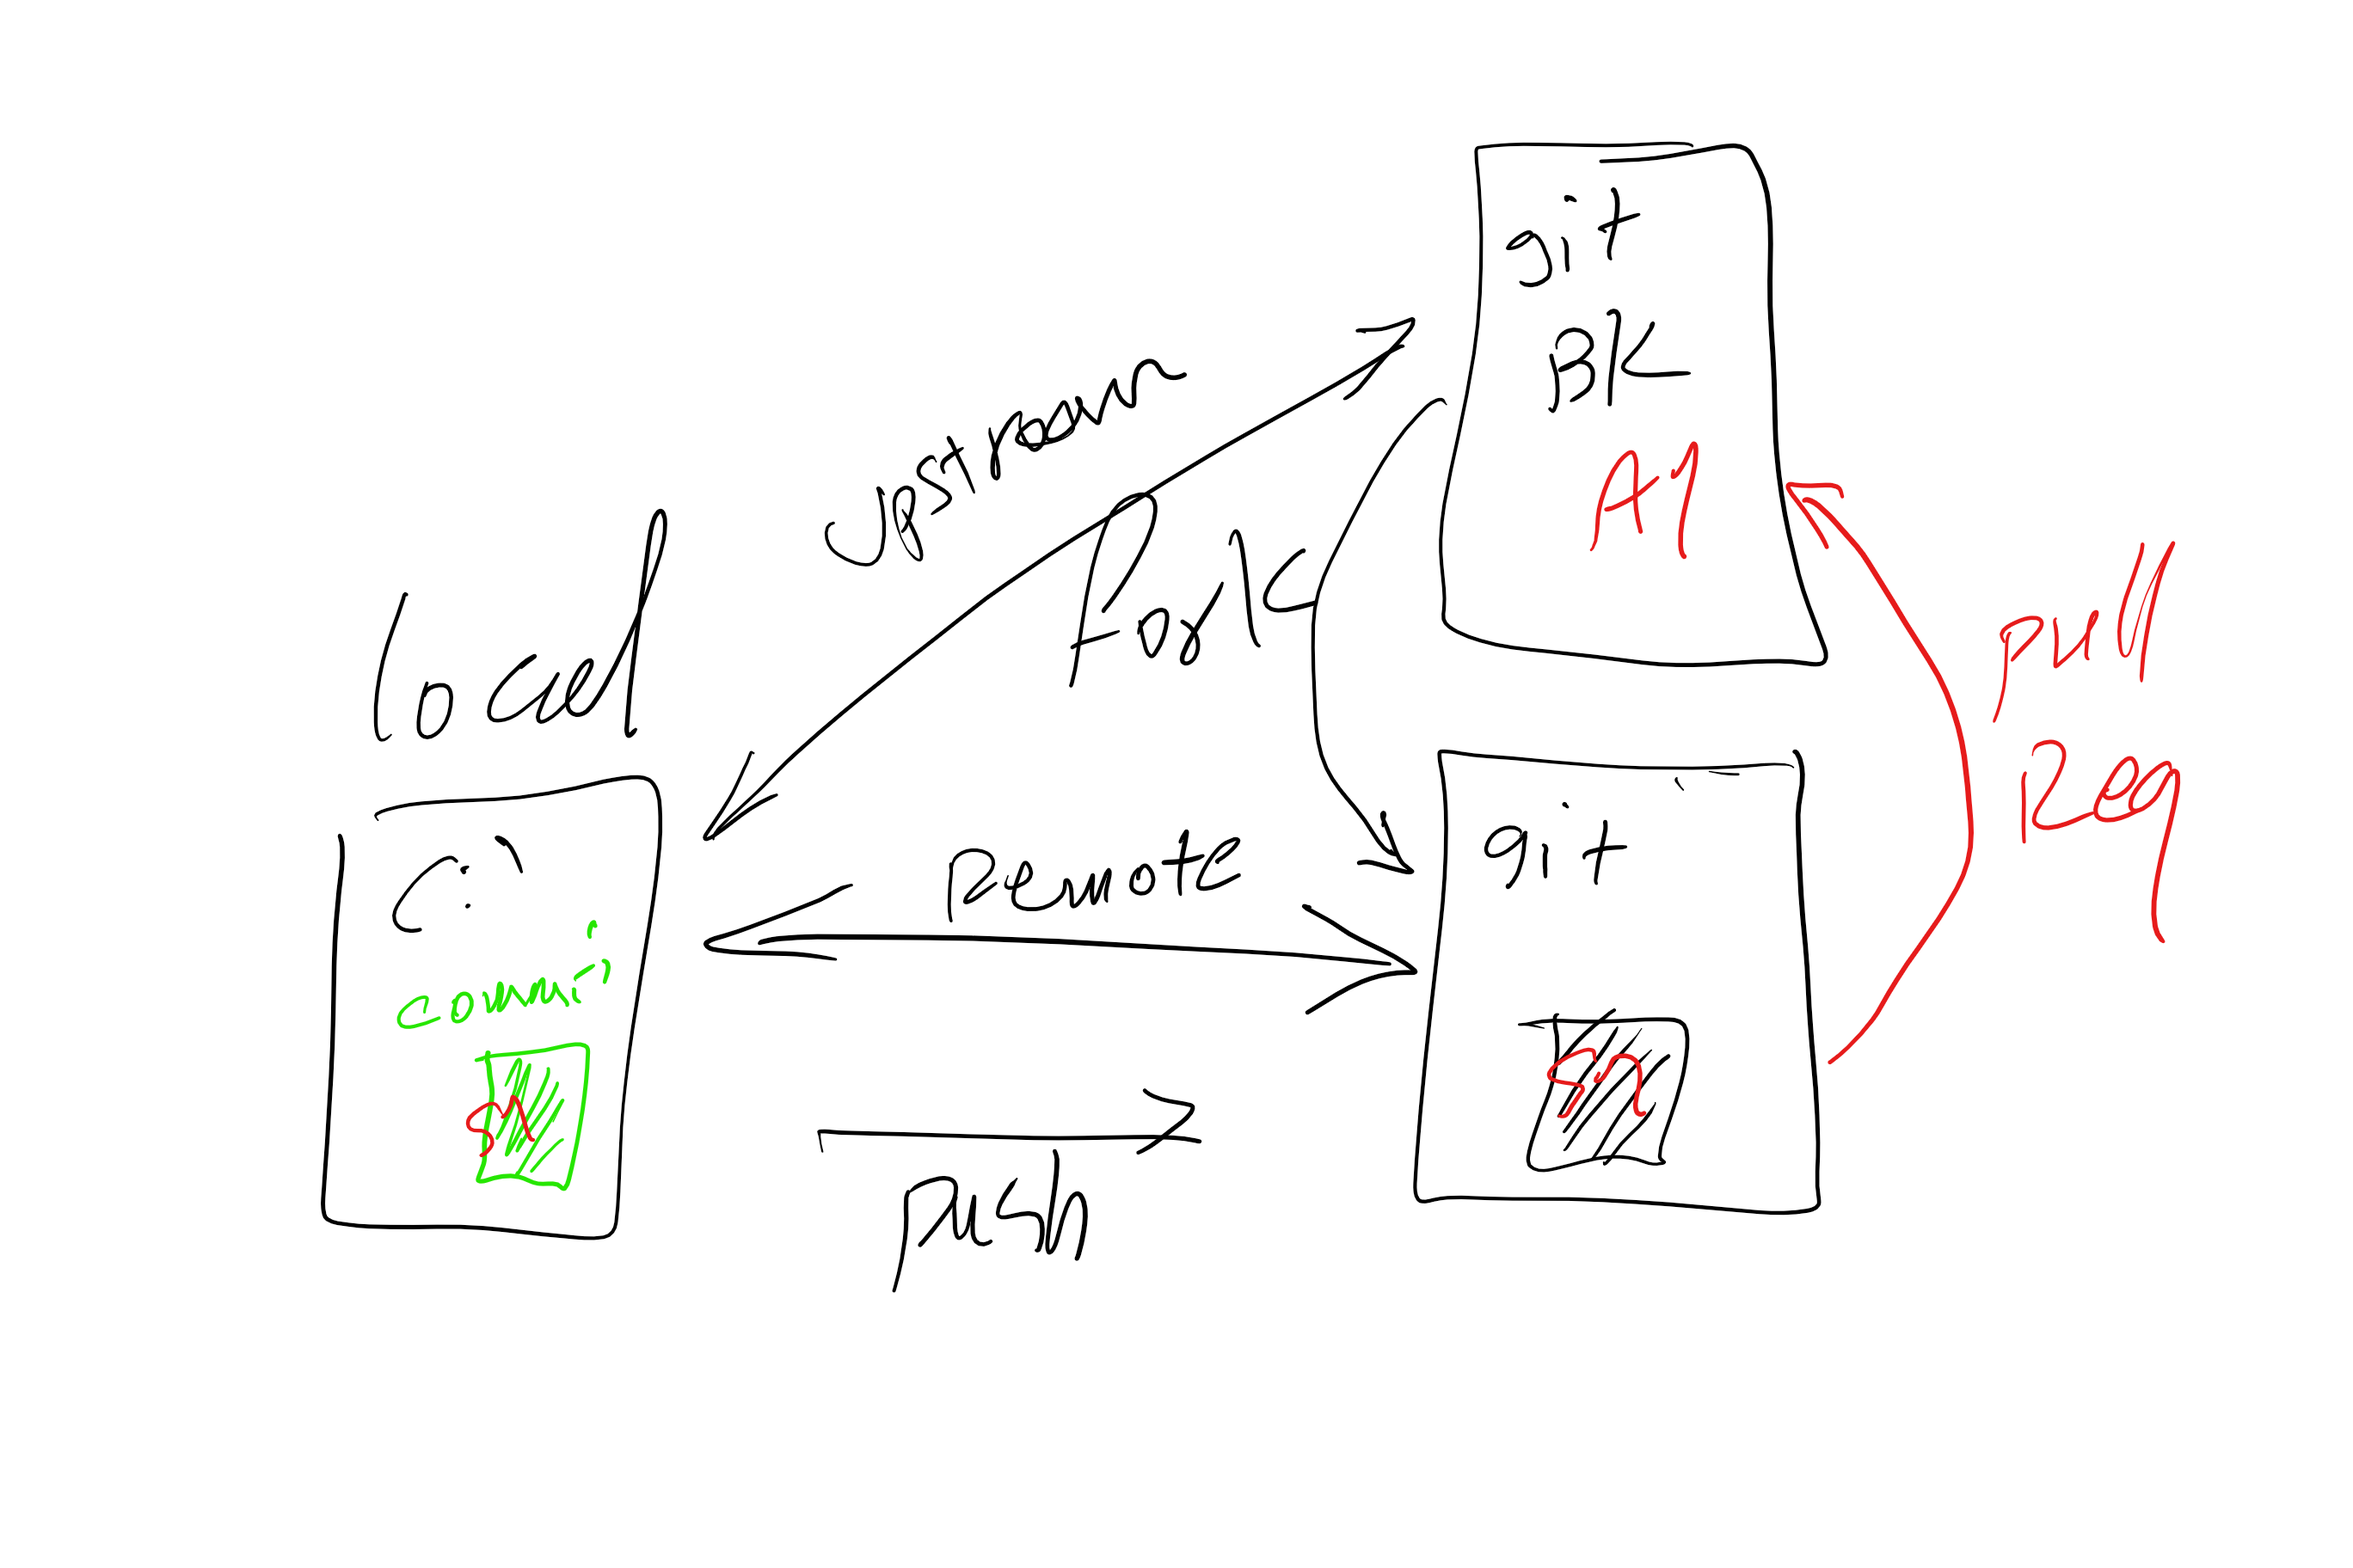
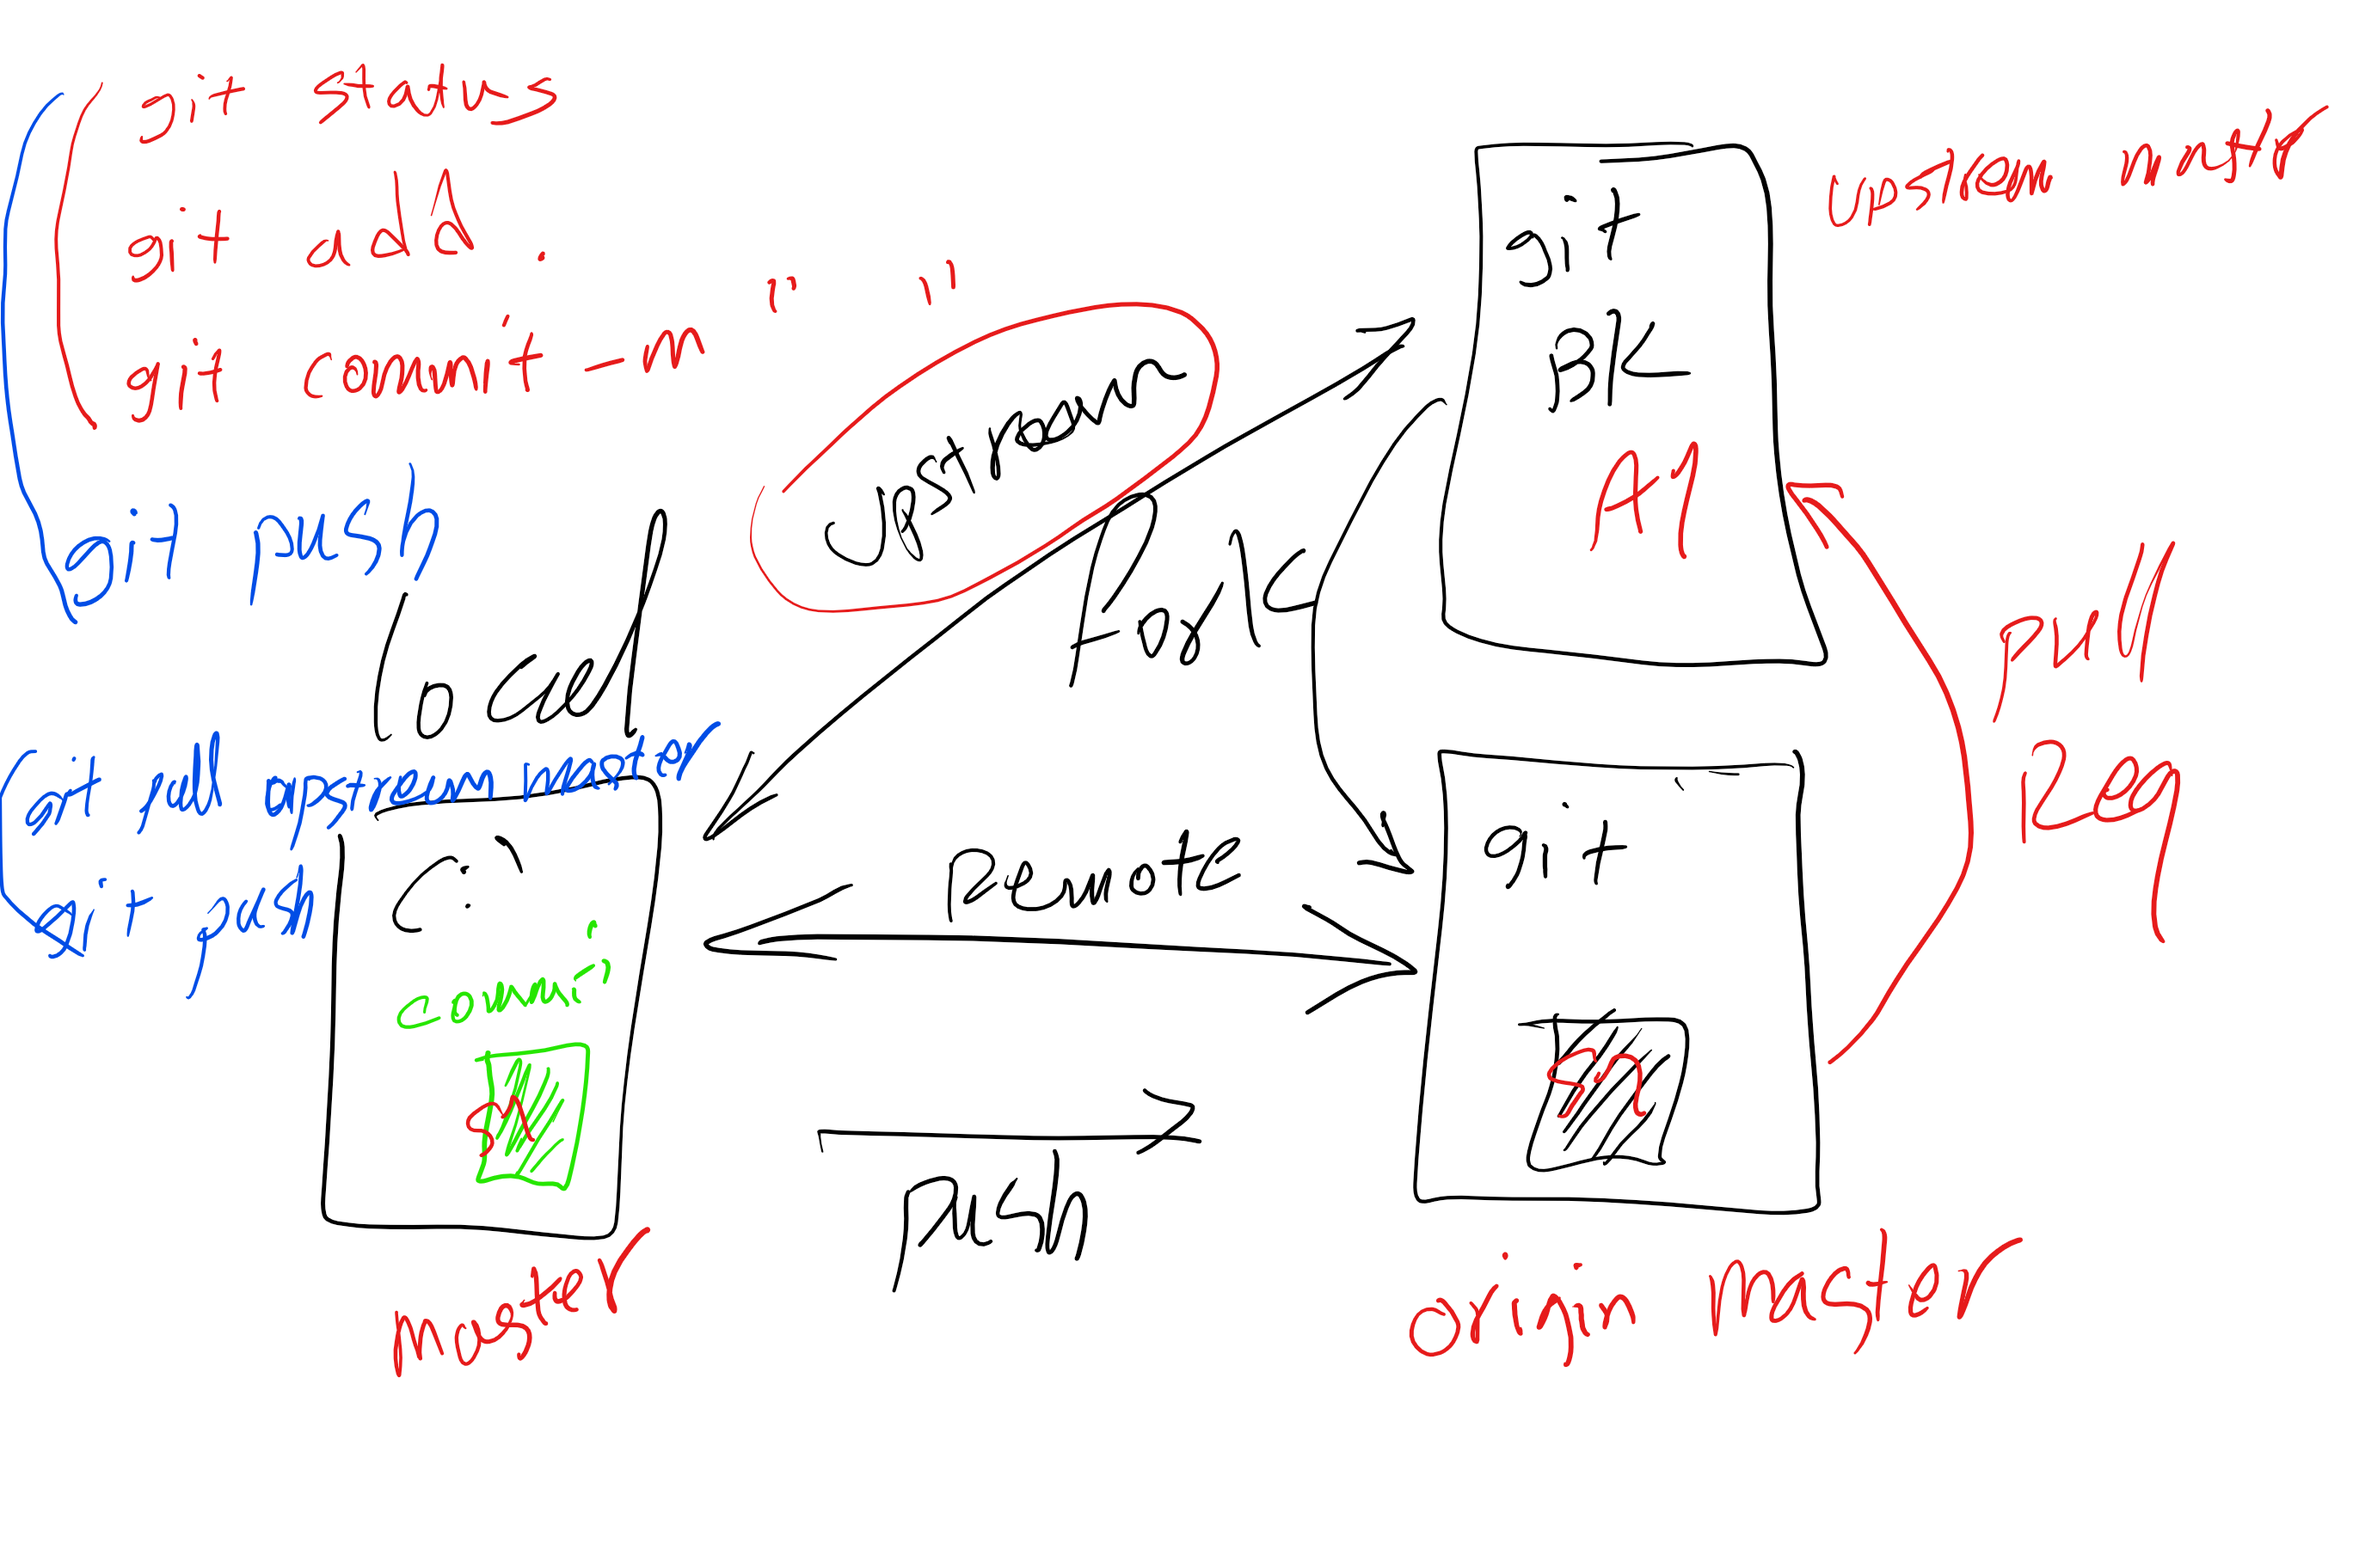
session 3

diff --git a/Behrang/03_4.py b/Behrang/03_4.py
@@ -1,0 +1,53 @@
+# -*- coding: utf-8 -*-
+"""
+Created on Sun Feb  9 11:24:49 2020
+
+@author: koushb
+"""
+
+import pandas as pd
+from sklearn import  linear_model as lm
+from sklearn.metrics import mean_squared_error as mse
+from sklearn.metrics import r2_score as r2
+import matplotlib.pyplot as plt
+
+lst=[1,6,4,3,8,9,1,5,8,8,7]
+
+
+a=np.mean(lst)
+print(a)
+
+df_bk=pd.read_csv("diabetes.csv")
+
+#var_names=['AGE', 'SEX', 'BMI', 'BP', 'S1', 'S2', 'S3', 'S4', 'S5', 'S6']
+var_names=list(df_bk.columns)
+var_names.remove('target')
+
+#for c in var_names:    
+#    df_bk[c+'^2']=df_bk[c]*df_bk[c]
+
+
+var_names=list(df_bk.columns)
+var_names.remove('target')
+
+X=df_bk[var_names].values
+y=df_bk['target'].values
+
+reg = lm.LinearRegression()
+reg.fit(X,y)
+
+pred=reg.predict(X)
+
+plt.figure(figsize=(20,20))
+#plt.plot(pred,y,'.')
+plt.scatter(pred,y)
+plt.show()
+
+my_mse=mse(y,pred)
+my_r2=r2(y,pred)
+
+print('MSE=',my_mse)
+print('r2=',my_r2)
+
+
+

diff --git a/Behrang/03_1.py b/Behrang/03_1.py
@@ -1,0 +1,39 @@
+# -*- coding: utf-8 -*-
+"""
+Created on Sun Feb  9 10:06:34 2020
+
+@author: koushb
+"""
+
+
+n=int(input('enter a number'))
+lst=[]
+for i in range(n):
+    lst.append(float(input()))
+    
+
+s=0
+ss=0
+for i in lst:
+    s=s+i
+
+m=s/n
+print(m)
+
+for i in lst:
+    ss=ss+(i-m)**2
+
+print(ss/(n-1))
+
+
+s=0
+ss=0
+for i in range(n):
+    a=float(input())
+    s=s+a
+    ss=ss+a**2
+    
+m=s/n
+print(m)
+
+

diff --git a/Behrang/03_3.py b/Behrang/03_3.py
@@ -1,0 +1,23 @@
+# -*- coding: utf-8 -*-
+"""
+Created on Sun Feb  9 11:14:21 2020
+
+@author: koushb
+"""
+
+lst=[1,6,4,3,8,9,1,5,8,8,7]
+
+n=len(lst)
+print(n)
+
+for i in range(n):
+    t1=lst[i]
+    for j in range(n):
+        t2=lst[j]
+        if t1>t2:
+            lst[j]=t1
+            lst[i]=t2
+            t1=t2
+
+print(lst)   
+        

diff --git a/Behrang/03_2.py b/Behrang/03_2.py
@@ -1,0 +1,34 @@
+# -*- coding: utf-8 -*-
+"""
+Created on Sun Feb  9 11:08:47 2020
+
+@author: koushb
+"""
+
+
+
+
+a=10
+b=20
+
+t=b
+b=a
+a=t
+
+
+a,b=b,a
+
+
+a=b+a
+b=a-b
+a=a-b
+
+
+
+
+
+
+
+
+
+
